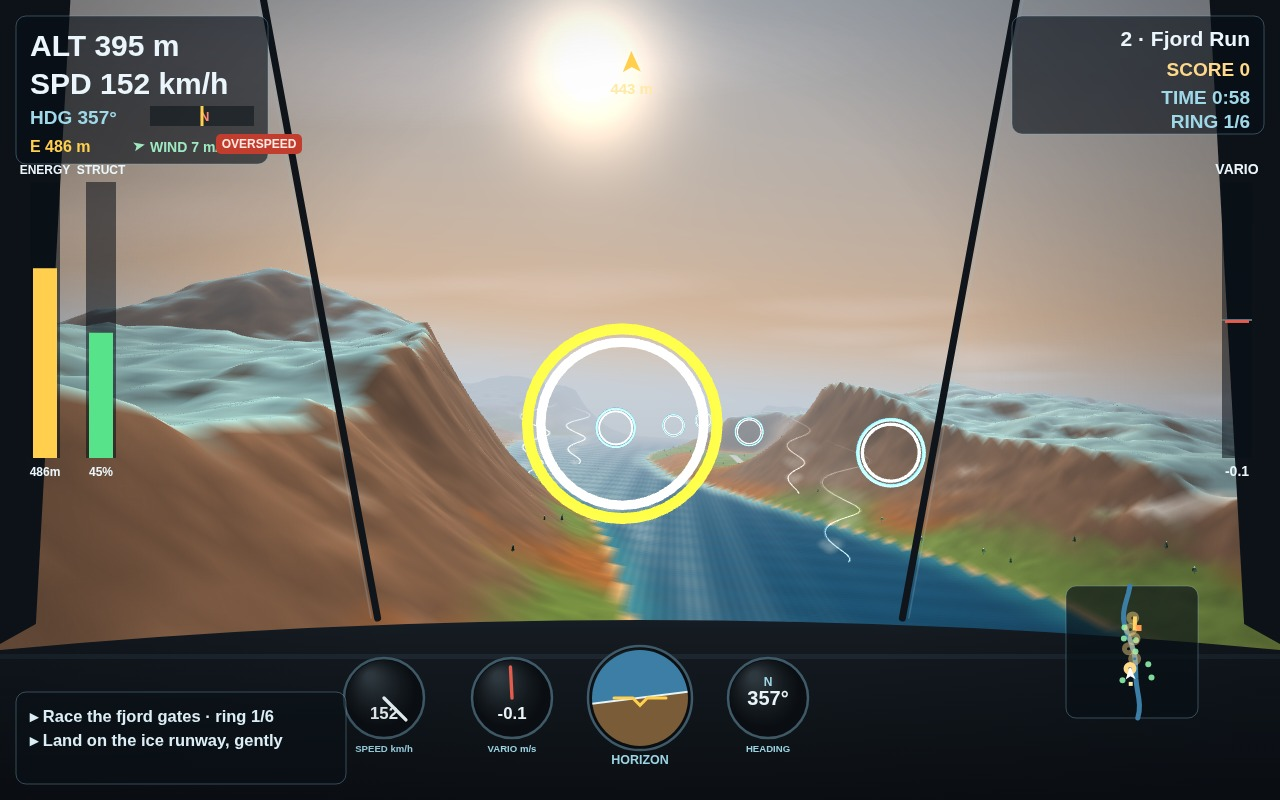
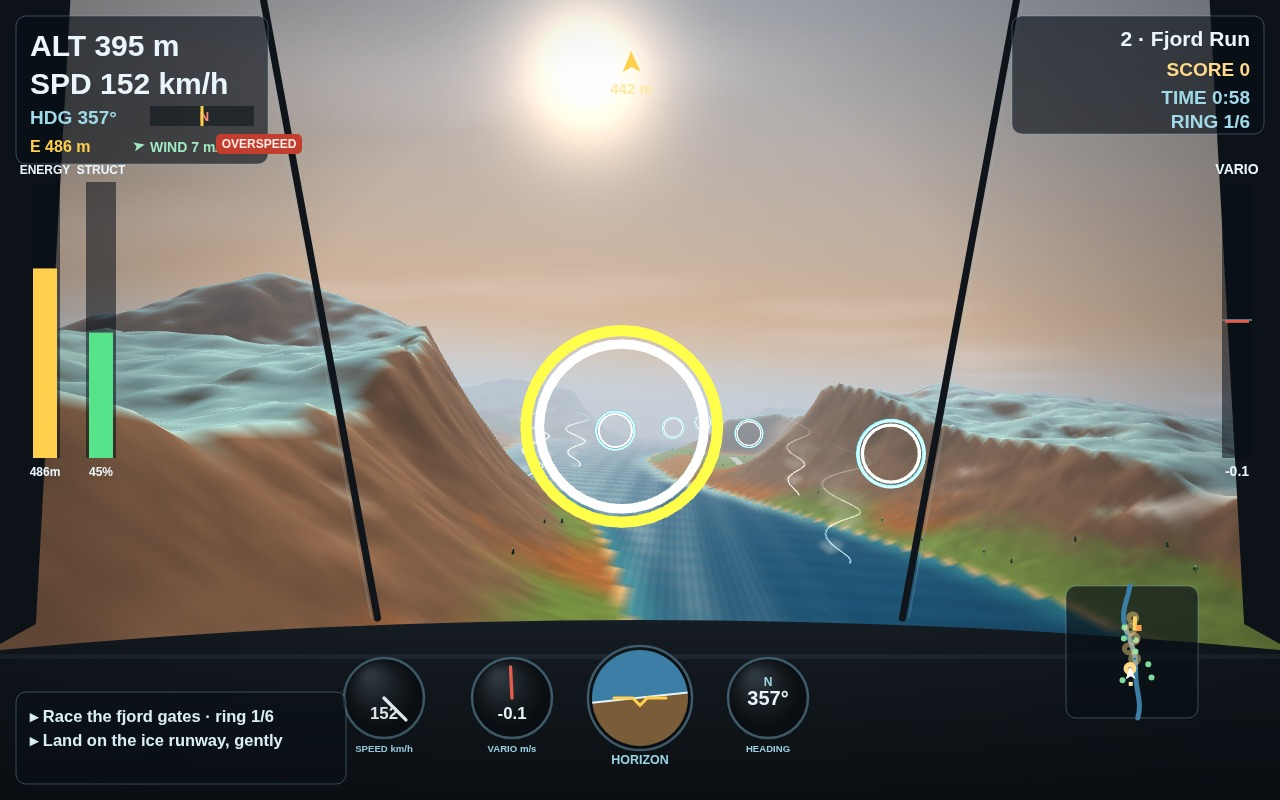
v7.3 audit, third pass: a resumed sortie forgot its own score breakdown
Continue stored the flight faithfully - position, rings, score,
seconds, the drop, the phase of day - except scoreParts. A
resumed flight kept its total but the results panel broke it
down as if the rings flown before the pause were worth nothing:
score 900, rings +0. The parts now travel with the save and are
restored with the rest. (Found by reading the Continue path
while proving the finish paths live: a real dive in First Glide
now ends, unscripted, in a real AIRFRAME FAILURE results screen
- stress, verdict, save and all.)

diff --git a/game/src/main.js b/game/src/main.js
@@ -140,7 +140,9 @@ function startFlight(resume = null) {
   ringIndex = resume?.ringIndex ?? 0;
   for (let i = 0; i < ringIndex; i++) if (rings[i]) rings[i].passed = true;
   score = resume?.score ?? 0;
-  scoreParts = { rings: 0, drop: 0, landing: 0, stalls: 0 };
+  // The breakdown resumes too: without it the results panel would
+  // swear the rings flown before the pause were worth nothing.
+  scoreParts = { rings: 0, drop: 0, landing: 0, stalls: 0, ...(resume?.parts || {}) };
   seconds = resume?.seconds ?? 0;
   dropped = mission.objective === "drop" ? (resume?.dropped ?? null) : undefined;
   packageDroppedAt = null;
@@ -397,6 +399,7 @@ function saveContinueAndQuit() {
       missionName: mission.name,
       glider: { x: glider.x, y: glider.y, z: glider.z, heading: glider.heading, pitch: glider.pitch, roll: glider.roll, speed: glider.speed },
       ringIndex, score, seconds,
+      parts: { ...scoreParts },
       dropped: dropped ?? null,
       dayPhase: sky.dayPhase,
     };

diff --git a/game/src/saveGame.js b/game/src/saveGame.js
@@ -13,7 +13,7 @@ export function defaultSave() {
     bestTime: {}, // missionId -> seconds
     totalFlightSeconds: 0,
     settings: { sensitivity: 1, volume: 0.7, invertY: false, quality: "high" },
-    continueSortie: null, // { missionId, glider, ringIndex, score, seconds }
+    continueSortie: null, // { missionId, missionName, glider, ringIndex, score, seconds, parts, dropped, dayPhase }
   };
 }
 
